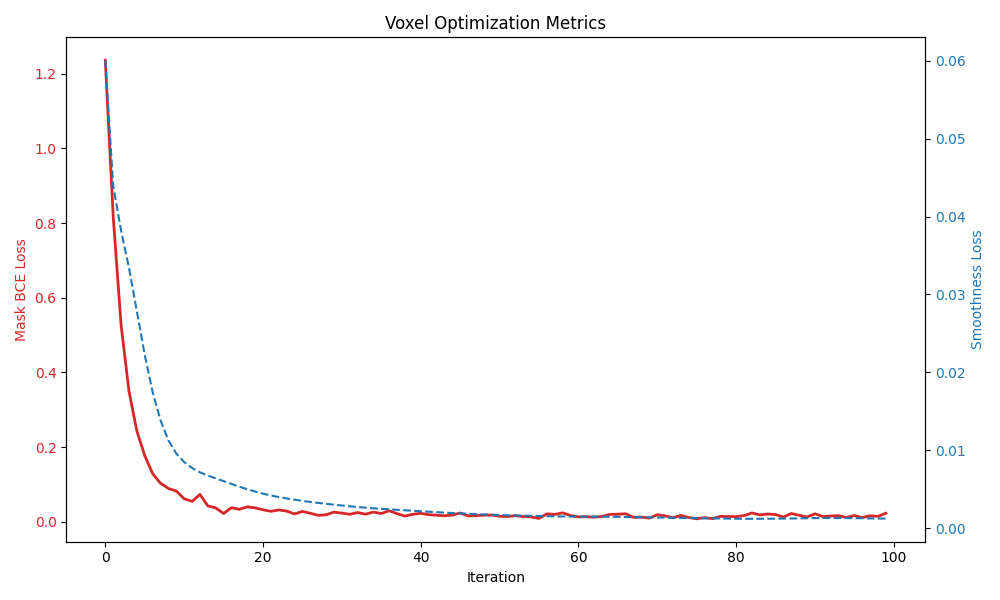
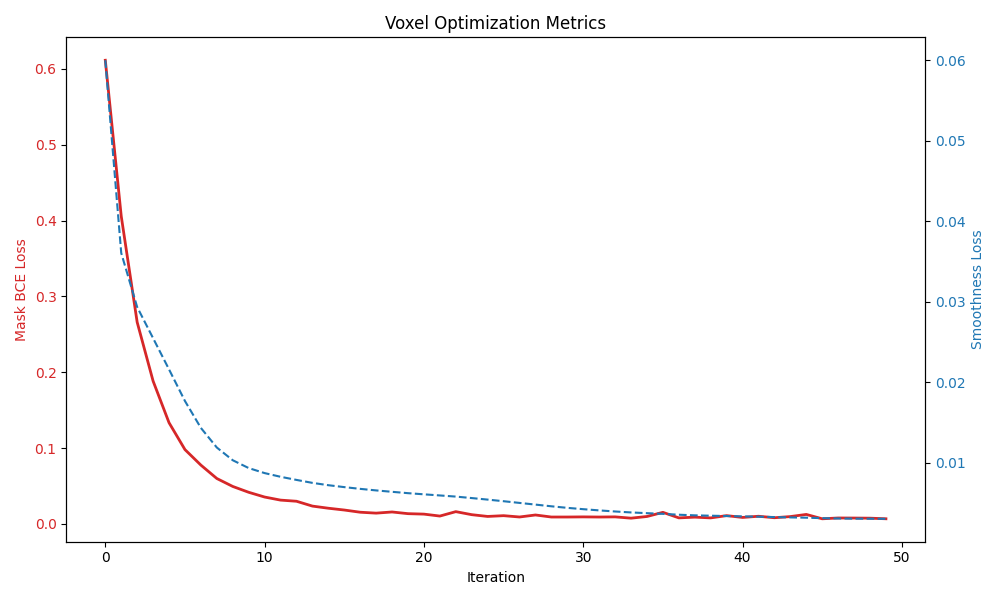
Add more settings

diff --git a/pipeline.py b/pipeline.py
@@ -29,7 +29,8 @@ if __name__ == "__main__":
     parser.add_argument("--sharpness", type=float, default=1.0, help="Sharpness parameter for converting phi to opacity")
     parser.add_argument("--beta", type=float, default=1.0, help="Weight for smoothness regularization")
     parser.add_argument("--iso_level", type=float, default=0.0, help="Isosurface level for visualization")
-    parser.add_argument("--num_test_views", type=int, default=5, help="Number of unseen views to render for evaluation")
+    parser.add_argument("--num_test_views", type=int, default=7, help="Number of unseen views to render for evaluation")
+    parser.add_argument("--num_test_samples", type=int, default=100, help="Number of samples per ray for test view rendering")
     parser.add_argument("--batch_size", type=int, default=4, help="Number of views to sample per optimization step")
     args = parser.parse_args()
 

diff --git a/stages/optimize.py b/stages/optimize.py
@@ -43,7 +43,7 @@ def render_phi_to_image(phi: torch.Tensor, cams: CameraState, args, device: torc
     renderings = []
     for i in range(len(cams.viewmats)):
         ray_origins, ray_dirs = construct_rays(cams.viewmats[i], cams.Ks[i], args.height, args.width, device)
-        points = sample_points_along_rays(ray_origins, ray_dirs, num_samples=100) 
+        points = sample_points_along_rays(ray_origins, ray_dirs, num_samples=args.num_test_samples) 
         phi_vals = query_phi_trilinear(phi, points, cams.target_center, cams.grid_radius)
         alpha = torch.sigmoid(-args.sharpness * phi_vals)
         mask = 1.0 - torch.prod(1.0 - alpha, dim=-1)
